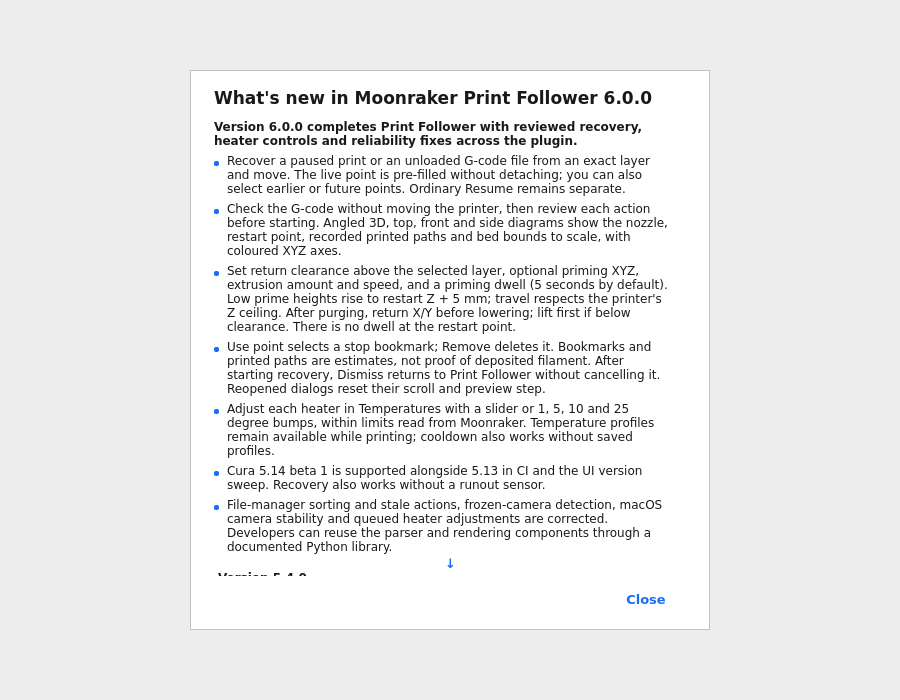
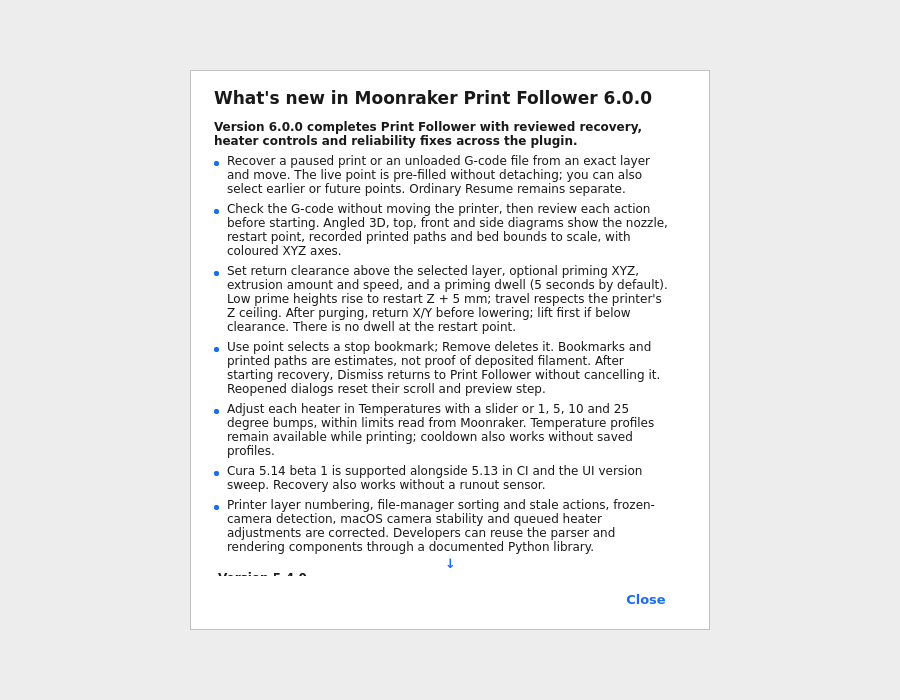
Respect printer layer numbering for comment-only G-code

Changed region(s): [[0.2489, 0.69, 0.7467, 0.81]]

diff --git a/tests/harness/test_harness_specs.py b/tests/harness/test_harness_specs.py
@@ -3,6 +3,7 @@
 # Licensed under GNU GPLv3 (version 3 only); see LICENSE.
 #
 # Selected Git history (newest first; oldest and latest two content changes):
+# 2026-10-18 — 6.0.0: Require the actual final Preview path in playback evidence.
 # 2026-10-18 — 6.0.0: Check presentation probe arguments without rejecting optional failure policy.
 # 2026-10-07 [b91c493] Judge static spans and native restoration against actual renderer behavior
 # 2026-10-06 [8da5d38] Update UI probes for cached toolhead rendering and larger settings tree
@@ -140,6 +141,32 @@ class HarnessSpecTests(unittest.TestCase):
                 self.assertEqual(namespace["result"]["native_restored"], expected)
                 self.assertEqual(namespace["result"]["compatibility_mode"], compatibility)
 
+    def test_penguin_preview_completion_requires_the_actual_final_path(self):
+        from types import SimpleNamespace
+        from unittest.mock import patch
+
+        for layer, expected, actual, maximum, finished in (
+                (2, 123.65, 123.65, 1548, False),
+                (2, 1548, 1548, 1548, True),
+                (2, 1548, 0, 1548, False),
+                (1, 1548, 1548, 1548, False),
+                (2, 1, 1, 0, False)):
+            with self.subTest(layer=layer, expected=expected, actual=actual, maximum=maximum):
+                view = SimpleNamespace(getLayerData=lambda: object(), getMaxLayers=lambda: 2,
+                    getCurrentLayer=lambda layer=layer: layer, getMaxPaths=lambda maximum=maximum: maximum,
+                    getCurrentPath=lambda actual=actual: actual)
+                state = SimpleNamespace(attached=True, expected_layer=layer, expected_path=expected)
+                runtime = SimpleNamespace(preview=SimpleNamespace(_state=state, _motion=object()),
+                    presentation=SimpleNamespace(reported_position=False))
+                extension = type("MoonrakerPrintFollower", (), {"_runtime": runtime})()
+                app = SimpleNamespace(getController=lambda view=view: SimpleNamespace(getActiveView=lambda: view),
+                    getExtensions=lambda extension=extension: [extension])
+                namespace = {}
+                with patch.dict(sys.modules, {"UM.Application": SimpleNamespace(
+                        Application=SimpleNamespace(getInstance=lambda app=app: app))}):
+                    exec(_scenarios.PENGUIN_PREVIEW_READ, namespace)
+                self.assertEqual(namespace["result"]["finished"], finished)
+
     def test_scheduled_pause_scenarios_hold_the_exact_layer_before_ui_waits(self):
         # The v5.1.0 macOS gate observed layer 5 while p7 waited for layer 1:
         # arming the hold after that wait cannot repair a missed transient.
@@ -154,7 +181,7 @@ class HarnessSpecTests(unittest.TestCase):
                 self.assertEqual(steps[seed_index]["layer_clock_interval_s"], 3600)
                 self.assertFalse(any(step["op"].startswith("wait_") for step in steps[:seed_index]))
                 scheduled_index = next(index for index, step in enumerate(steps)
-                                       if step["op"] == "wait_exec" and '"End of layer 2' in step.get("contains", ""))
+                                       if step["op"] == "wait_exec" and '"End of layer 1' in step.get("contains", ""))
                 release_index = next(index for index, step in enumerate(steps)
                                      if step["op"] == "sim_arm" and step.get("arms", {}).get("layer_clock_interval_s") == 6)
                 self.assertGreater(release_index, scheduled_index)

diff --git a/mpf/gcode/GCodeIndex.py b/mpf/gcode/GCodeIndex.py
@@ -3,6 +3,7 @@
 # Licensed under GNU GPLv3 (version 3 only); see LICENSE.
 #
 # Selected Git history (newest first; oldest and latest two content changes):
+# 2026-10-18 — 6.0.0: Keep slicer marker numbers separate from firmware layer numbering.
 # 2026-10-13 [a2da858] Derive recovery clearance and support object-top Z homing
 # 2026-10-05 [8a4fec8] Add Preview object banners and recognize slow Cura loads
 # 2026-09-03 [0ff5092] Update to v1.0.3.
@@ -58,12 +59,11 @@ def build_index_from_file(path: str, cancel_event=None, compact: Optional[bool] 
         except OSError:
             compact = False
 
-    winner, captures, filament_diameter, filament_diameters = read_header(path)
+    winner, _captures, filament_diameter, filament_diameters = read_header(path)
 
     blocks: List[dict] = []
     current: Optional[dict] = None
     stats_values: List[int] = []
-    marker_values: List[int] = []
     pause_offsets: List[int] = []
     absolute_xyz = True
     units_scale = 1.0
@@ -141,10 +141,8 @@ def build_index_from_file(path: str, cancel_event=None, compact: Optional[bool] 
             # still takes over retroactively (its pass would have
             # found this line before any later marker's pass ran).
             boundary = False
-            matched = None
             if fast is None and winner is not None and winner.search(stripped) is not None:
                 boundary = True
-                matched = captures[winner]
             if boundary:
                 if current is not None and current["end"] is None:
                     current["end"] = offset
@@ -209,13 +207,6 @@ def build_index_from_file(path: str, cancel_event=None, compact: Optional[bool] 
                         "start_speed": features.start_speed, "start_tool": features.start_tool,
                     }
                     blocks.append(current)
-                if matched is not None:
-                    capture_match = matched.search(stripped)
-                    if capture_match is not None:
-                        try:
-                            marker_values.append(int(capture_match.group(1)))
-                        except (TypeError, ValueError):
-                            pass
             elif current is not None and current["end"] is None:
                 elapsed_match = None if fast is not None else _ELAPSED.search(stripped)
                 if elapsed_match is not None:
@@ -379,7 +370,7 @@ def build_index_from_file(path: str, cancel_event=None, compact: Optional[bool] 
             current["motion_total"] = features.count
 
     return assemble_index(
-        blocks, file_end, stats_values, marker_values, pause_offsets, type_names, filament_diameter, filament_diameters, compact, cancel_event,
+        blocks, file_end, stats_values, pause_offsets, type_names, filament_diameter, filament_diameters, compact, cancel_event,
         object_work.finish(), printed_top_z,
     )
 

diff --git a/tests/harness/scenarios/preview.py b/tests/harness/scenarios/preview.py
@@ -3,6 +3,7 @@
 # Licensed under GNU GPLv3 (version 3 only); see LICENSE.
 #
 # Selected Git history (newest first; oldest and latest two content changes):
+# 2026-10-18 — 6.0.0: Expect the seeded one-based printer layer in pause checks.
 # 2026-10-07 [b91c493] Judge static spans and native restoration against actual renderer behavior
 # 2026-10-06 [8da5d38] Update UI probes for cached toolhead rendering and larger settings tree
 # 2026-09-30 [67f0fe4] The scenario suite becomes a package, by group
@@ -139,6 +140,7 @@ SCENARIOS = [
      "steps": [
          {"op": "sim_set_current_print", "current_layer": 1, "layer_clock_interval_s": 3600},
          {"op": "wait_model", "prop": "monitorState", "contains": "print", "budget": 30},
+         # Raw CURRENT_LAYER=1 is human layer 1, not Cura marker 1.
          # The same POST seeded layer 1 and held the clock before waiting
          # for the UI. Even an 8+ second startup cannot skip that layer.
          {"op": "wait_sim", "path": "print_stats.info.current_layer", "value": 1, "budget": 20},
@@ -147,7 +149,7 @@ SCENARIOS = [
          # The row the click made, not any row: the baked row also
          # reads "End of layer", and matching it hid a refused click
          # (the 2026-09-18 flake's false positive).
-         {"op": "wait_exec", "code": P_PAUSE_SCHEDULED, "contains": '"scheduled": true, "label": "End of layer 2', "budget": 20},
+         {"op": "wait_exec", "code": P_PAUSE_SCHEDULED, "contains": '"scheduled": true, "label": "End of layer 1', "budget": 20},
          # The row is read: the pause now has to fire, and it fires
          # by the print crossing the layer.
          {"op": "sim_arm", "arms": {"layer_clock_interval_s": 6}},
@@ -169,7 +171,7 @@ SCENARIOS = [
          {"op": "wait_sim", "path": "print_stats.info.current_layer", "value": 1, "budget": 20},
          {"op": "wait_seconds", "seconds": 3},
          {"op": "exec_code", "verbs": ['clicked.emit'], "code": P_PAUSE_CLICK},
-         {"op": "wait_exec", "code": P_PAUSE_SCHEDULED, "contains": '"scheduled": true, "label": "End of layer 2', "budget": 20},
+         {"op": "wait_exec", "code": P_PAUSE_SCHEDULED, "contains": '"scheduled": true, "label": "End of layer 1', "budget": 20},
          {"op": "sim_arm", "arms": {"layer_clock_interval_s": 6}},
          {"op": "wait_exec", "code": P_MISSED, "contains": '"missed": true', "budget": 60},
          {"op": "sim_ledger", "needle": "gcode/script", "method": "POST", "min": 1, "budget": 20},

diff --git a/tests/test_print_state.py b/tests/test_print_state.py
@@ -3,6 +3,7 @@
 # Licensed under GNU GPLv3 (version 3 only); see LICENSE.
 #
 # Selected Git history (newest first; oldest and latest two content changes):
+# 2026-10-18 — 6.0.0: Keep slicer marker numbers separate from firmware layer numbering.
 # 2026-10-01 [d8cf321] Revert "mpf's subpackages are capitalised"
 # 2026-09-30 [f425547] mpf's subpackages are capitalised
 # 2026-09-07 [2ec6e6e] Harden lifecycle ownership and race guards
@@ -46,6 +47,26 @@ class PrintStateTests(unittest.TestCase):
         index = SimpleNamespace(ranges=((0, 10), (10, 20)), current_layer_map={5: 1}, layer_at=lambda p: 0)
         self.assertEqual(resolver.resolve({"print_stats": {"info": {"current_layer": 5}}}, PrinterConfig(), index).index, 1)
         self.assertEqual(resolver.resolve({"virtual_sdcard": {"file_position": 5}}, PrinterConfig(), index).index, 0)
+
+    def test_comment_only_layer_numbers_do_not_override_printer_numbering(self):
+        from mpf.gcode.GCodeIndex import build_index_from_bytes
+
+        for marker in (";LAYER:{layer}", "; layer num/total_layer_count: {human}/3"):
+            data = "".join(marker.format(layer=n, human=n + 1) +
+                           f"\nG1 X{n + 1} Z{(n + 1) * .2} E{n + 1}\n"
+                           for n in range(3)).encode()
+            index = build_index_from_bytes(data)
+            for one_based in (True, False):
+                resolver = LayerResolver()
+                config = PrinterConfig(moonraker_layer_is_one_based=one_based)
+                for layer in range(3):
+                    with self.subTest(marker=marker, one_based=one_based, layer=layer):
+                        # No Cura height table or metadata is available to
+                        # conceal an incorrect comment-derived mapping.
+                        result = resolver.resolve({"print_stats": {"info": {
+                            "current_layer": layer + int(one_based)}}}, config, index)
+                        self.assertEqual(result.index, layer)
+                        self.assertEqual(result.source, "Moonraker current_layer")
 
     def test_z_hop_does_not_advance_physical_layer_without_extrusion(self):
         resolver = LayerResolver()

diff --git a/mpf/gcode/IndexAssembly.py b/mpf/gcode/IndexAssembly.py
@@ -3,6 +3,7 @@
 # Licensed under GNU GPLv3 (version 3 only); see LICENSE.
 #
 # Selected Git history (newest first; oldest and latest two content changes):
+# 2026-10-18 — 6.0.0: Keep slicer marker numbers separate from firmware layer numbering.
 # 2026-10-13 [a2da858] Derive recovery clearance and support object-top Z homing
 # 2026-10-05 [8a4fec8] Add Preview object banners and recognize slow Cura loads
 # 2026-09-29 [2cd649b] Decompose indexing into explicit parser, cache and worker components
@@ -39,7 +40,7 @@ def _print_colour_ranges(blocks, heights, diameter, diameters):
                 result[name] = (min(lo, previous[0]), max(hi, previous[1]))
     return result
 
-def assemble_index(blocks, file_end, stats_values, marker_values, pause_offsets, type_names, filament_diameter, filament_diameters, compact, cancel_event, object_work=None, printed_top_z=0.0) -> LayerMotionIndex:
+def assemble_index(blocks, file_end, stats_values, pause_offsets, type_names, filament_diameter, filament_diameters, compact, cancel_event, object_work=None, printed_top_z=0.0) -> LayerMotionIndex:
     ranges: List[Tuple[int, int]] = []
     motions: List[array] = []
     xs: List[array] = []
@@ -171,15 +172,9 @@ def assemble_index(blocks, file_end, stats_values, marker_values, pause_offsets,
                 layer_map = {}
                 break
             layer_map[value] = index
-    elif not layer_map and ranges and len(marker_values) == len(ranges):
-        # Cura and Orca numeric layer markers provide a useful mapping even when
-        # SET_PRINT_STATS_INFO is absent. The exact values are preserved instead
-        # of assuming zero/one-based numbering.
-        for index, value in enumerate(marker_values):
-            if value in layer_map:
-                layer_map = {}
-                break
-            layer_map[value] = index
+    # Slicer comments delimit indexed layers; they do not declare the values
+    # Klipper reports. Without explicit stats, the resolver uses the user's
+    # zero/one-based setting instead of inventing a firmware mapping.
 
     hydrated = set(range(len(ranges))) if not compact else set()
     return LayerMotionIndex(

diff --git a/tests/test_index_physical_progress.py b/tests/test_index_physical_progress.py
@@ -3,6 +3,7 @@
 # Licensed under GNU GPLv3 (version 3 only); see LICENSE.
 #
 # Selected Git history (newest first; oldest and latest two content changes):
+# 2026-10-18 — 6.0.0: Keep slicer marker numbers separate from firmware layer numbering.
 # 2026-10-01 [1866243] Persist print sources and publish live download progress
 # 2026-10-01 [d8cf321] Revert "mpf's subpackages are capitalised"
 # 2026-09-27 [9e9ae5d] Reduce layer-load overhead and split isolated test domains
@@ -155,10 +156,23 @@ class PlateSplitRefinementTests(harness.PlateSplitRefinementTests):
         data, rows = penguin_playback()
         index = harness.build_index_from_bytes(data)
         self.service._view = self.qt.load("IndexView").IndexView(self.job, index)
+        from mpf.printing.PrintState import LayerResolver
+        from mpf.settings.PrinterConfig import PrinterConfig
+        resolver, config = LayerResolver(), PrinterConfig()
+        # Seed the first physical layer before download, then provide an
+        # older Cura's all-zero height table once its index becomes ready.
+        self.assertEqual(resolver.resolve({"print_stats": {"info": {
+            "current_layer": 1}}}, config).index, 0)
+        first = playback_sample(rows, 0)
+        self.service.observe_motion(0, first["offset"], first["position"][:3], extruding=False)
         best = [0.0, 0.0, 0.0]
         for tick in range(1, 81):
             sample = playback_sample(rows, tick / 80)
-            motion = self.service.observe_motion(sample["layer"], sample["offset"],
+            physical = resolver.resolve({"print_stats": {"info": {
+                "current_layer": sample["layer"] + 1}}}, config,
+                self.service._view, heights=(0, 0, 0), nozzle=sample["position"][:3])
+            self.assertEqual(physical.index, sample["layer"])
+            motion = self.service.observe_motion(physical.index, sample["offset"],
                 sample["position"][:3], extruding=sample["extruder_velocity"] > 1e-6)
             best[sample["layer"]] = max(best[sample["layer"]], motion.fraction)
         for layer, progress in enumerate(best):

diff --git a/tests/test_index.py b/tests/test_index.py
@@ -3,6 +3,7 @@
 # Licensed under GNU GPLv3 (version 3 only); see LICENSE.
 #
 # Selected Git history (newest first; oldest and latest two content changes):
+# 2026-10-18 — 6.0.0: Keep slicer marker numbers separate from firmware layer numbering.
 # 2026-10-01 [d8cf321] Revert "mpf's subpackages are capitalised"
 # 2026-10-01 [b5f5511] Revert "Capitalise the remaining top-level directories"
 # 2026-09-03 [0ff5092] Update to v1.0.3.
@@ -167,11 +168,11 @@ class IndexTests(unittest.TestCase):
         self.assertEqual(index.layer_count(), 2)
         self.assertEqual([index.motion_count(0), index.motion_count(1)], [1, 1])
 
-    def test_orcaslicer_numeric_markers_map_actual_values(self):
+    def test_orcaslicer_numeric_markers_define_layers_without_firmware_mapping(self):
         data = b"""; layer num/total_layer_count: 1/2\nG1 X1\n; layer num/total_layer_count: 2/2\nG1 X2\n"""
         index = build_index_from_bytes(data)
         self.assertEqual(index.layer_count(), 2)
-        self.assertEqual(index.current_layer_map, {1: 0, 2: 1})
+        self.assertEqual(index.current_layer_map, {})
 
     def test_time_elapsed_values_are_retained_per_layer(self):
         data = b""";LAYER:0\nG1 X1\n;TIME_ELAPSED:12.5\n;LAYER:1\nG1 X2\n;TIME_ELAPSED:31.75\n"""
@@ -780,7 +781,7 @@ G1 X5 Y0 Z0.2
         self.assertEqual(cura.current_layer_map, {1: 0, 2: 1, 3: 2})
         self.assertEqual(cura.layer_elapsed_times, [120.0, 420.0, 900.0])
         orca = build_index_from_file(str(FIXTURES / "orca.gcode"), compact=False)
-        self.assertEqual(orca.current_layer_map, {1: 0, 2: 1, 3: 2})
+        self.assertEqual(orca.current_layer_map, {})
         self.assertEqual(build_index_from_file(str(FIXTURES / "prusa.gcode"), compact=False).layer_count(), 3)
         variable = build_index_from_file(str(FIXTURES / "variable_layers.gcode"), compact=False)
         self.assertEqual(variable.layer_elapsed_times, [10.0, 22.0, 45.0])

diff --git a/tests/test_gcode_index_integration_coverage.py b/tests/test_gcode_index_integration_coverage.py
@@ -3,6 +3,7 @@
 # Licensed under GNU GPLv3 (version 3 only); see LICENSE.
 #
 # Selected Git history (newest first; oldest and latest two content changes):
+# 2026-10-18 — 6.0.0: Keep slicer marker numbers separate from firmware layer numbering.
 # 2026-10-13 [a2da858] Derive recovery clearance and support object-top Z homing
 # 2026-10-05 [8a4fec8] Add Preview object banners and recognize slow Cura loads
 # 2026-09-18 [64ff78e] 4.5.0: the coverage wave lands — fifteen behavioural suites lift plugins/ from 83% to 99%
@@ -377,9 +378,9 @@ G1 X3
             b";LAYER_CHANGE\nSET_PRINT_STATS_INFO CURRENT_LAYER=4\nG1 X2\n"
             b";LAYER_CHANGE\nSET_PRINT_STATS_INFO CURRENT_LAYER=3\nG1 X3\n")
         self.assertEqual(repeated.current_layer_map, {})
-        # Cura/Orca numeric markers supply the map when no stats exist.
+        # Numeric comments delimit layers but cannot declare firmware numbering.
         markers = build_index_from_bytes(b";LAYER:1\nG1 X1\n;LAYER:2\nG1 X2\n")
-        self.assertEqual(markers.current_layer_map, {1: 0, 2: 1})
+        self.assertEqual(markers.current_layer_map, {})
         # Repeated markers are as unusable as repeated stats values: the
         # numbering restarted, so no layer can be trusted to a marker.
         restarted = build_index_from_bytes(b";LAYER:1\nG1 X1\n;LAYER:1\nG1 X2\n")
@@ -636,6 +637,8 @@ class CacheTests(unittest.TestCase):
         identity = self._identity()
         cache = PersistentIndexCache(self.directory)
         self._write_raw(identity, b"", magic=b"NOTMAGIC")
+        self.assertIsNone(cache.load(identity))
+        self._write_raw(identity, self._body(), header=self._header(identity, version=16))
         self.assertIsNone(cache.load(identity))
         self._write_raw(identity, self._body(), header=self._header(identity, version=_CACHE_VERSION + 1))
         self.assertIsNone(cache.load(identity))

diff --git a/mpf/whatsnew/WhatsNew.py b/mpf/whatsnew/WhatsNew.py
@@ -3,7 +3,7 @@
 # Licensed under GNU GPLv3 (version 3 only); see LICENSE.
 #
 # Selected release and Git history (newest first; original provenance retained):
-# 2026-10-18 — 6.0.0: Mention the macOS camera stability repair.
+# 2026-10-18 — 6.0.0: Mention camera stability and corrected printer layer numbering.
 # 2026-10-18 — 6.0.0: Describe final recovery, temperature and whole-product reliability changes.
 # 2026-10-18 [b68f411] Complete print recovery controls, temperature adjustment and release documentation
 # 2026-10-13 [54a31e5] Implement interrupted print recovery handover
@@ -46,7 +46,7 @@ WHATS_NEW: Tuple[dict, ...] = (
             "Use point selects a stop bookmark; Remove deletes it. Bookmarks and printed paths are estimates, not proof of deposited filament. After starting recovery, Dismiss returns to Print Follower without cancelling it. Reopened dialogs reset their scroll and preview step.",
             "Adjust each heater in Temperatures with a slider or 1, 5, 10 and 25 degree bumps, within limits read from Moonraker. Temperature profiles remain available while printing; cooldown also works without saved profiles.",
             "Cura 5.14 beta 1 is supported alongside 5.13 in CI and the UI version sweep. Recovery also works without a runout sensor.",
-            "File-manager sorting and stale actions, frozen-camera detection, macOS camera stability and queued heater adjustments are corrected. Developers can reuse the parser and rendering components through a documented Python library.",
+            "Printer layer numbering, file-manager sorting and stale actions, frozen-camera detection, macOS camera stability and queued heater adjustments are corrected. Developers can reuse the parser and rendering components through a documented Python library.",
         ),
     },
     {

diff --git a/tests/harness/scenarios/probe_source.py b/tests/harness/scenarios/probe_source.py
@@ -3,6 +3,7 @@
 # Licensed under GNU GPLv3 (version 3 only); see LICENSE.
 #
 # Selected Git history (newest first; oldest and latest two content changes):
+# 2026-10-18 — 6.0.0: Require the actual final Preview path in playback evidence.
 # 2026-10-06 [8da5d38] Update UI probes for cached toolhead rendering and larger settings tree
 # 2026-10-06 [ab3a658] Add custom toolheads and lighting for v5.2.0
 # 2026-09-30 [67f0fe4] The scenario suite becomes a package, by group
@@ -1396,6 +1397,11 @@ for extension in app.getExtensions():
         result["layer"] = state.expected_layer
         result["path"] = state.expected_path
         result["moving"] = bool(result["ready"] and state.expected_path is not None and state.expected_path > 0 and view.getCurrentLayer() == state.expected_layer)
-        result["finished"] = result["moving"] and state.expected_layer == 2
+        result["maximum_path"] = view.getMaxPaths() if result["ready"] else 0
+        result["actual_path"] = view.getCurrentPath() if result["ready"] else None
+        result["finished"] = bool(result["moving"] and state.expected_layer == 2
+            and result["maximum_path"] > 0
+            and abs(state.expected_path - result["maximum_path"]) < .5
+            and abs(result["actual_path"] - state.expected_path) < .5)
         break
 """

diff --git a/mpf/gcode/IndexCodec.py b/mpf/gcode/IndexCodec.py
@@ -3,6 +3,7 @@
 # Licensed under GNU GPLv3 (version 3 only); see LICENSE.
 #
 # Selected Git history (newest first; oldest and latest two content changes):
+# 2026-10-18 — 6.0.0: Keep slicer marker numbers separate from firmware layer numbering.
 # 2026-10-13 [a2da858] Derive recovery clearance and support object-top Z homing
 # 2026-10-05 [8a4fec8] Add Preview object banners and recognize slow Cura loads
 # 2026-09-29 [2cd649b] Decompose indexing into explicit parser, cache and worker components
@@ -54,7 +55,9 @@ _MAX_CACHE_ARC_ENTRIES = 200_000
 # counts may read zero for never-hydrated layers, which is exactly
 # the resumed-session dead-slider report; refusing them rebuilds.
 # Version 15 adds bounded per-object work checkpoints and XY bounds.
-_CACHE_VERSION = 16
+# 17: layer maps contain only explicit firmware stats, never slicer comments.
+# Rebuild older indexes rather than restoring an invented numbering scheme.
+_CACHE_VERSION = 17
 
 
 def _read_exact(handle: BinaryIO, size: int) -> bytes:

diff --git a/README.md b/README.md
@@ -907,7 +907,7 @@ Monitor displays:
   commanded volumetric flow rate (mm³/s, negative on retraction)
 - Pause, Resume and Cancel controls while a print is active
 
-The Monitor layer resolver uses the same interpretation as the Preview follower. It prefers explicit `CURRENT_LAYER` values mapped from the active G-code, then uses the indexed G-code layer ranges with `virtual_sdcard.file_position`, and finally uses the configured Z-height fallback when necessary. This avoids requiring every Klipper setup to populate `print_stats.info.current_layer`.
+The Monitor layer resolver uses the same interpretation as the Preview follower. It prefers explicit `SET_PRINT_STATS_INFO CURRENT_LAYER` values mapped from the active G-code, then applies the configured zero/one-based printer numbering, and then uses the indexed G-code layer ranges with `virtual_sdcard.file_position`, and finally uses the configured Z-height fallback when necessary. Slicer layer comments define the indexed ranges, not the printer’s numbering. This avoids requiring every Klipper setup to populate `print_stats.info.current_layer`.
 
 ### Temperatures, fans and filament
 
